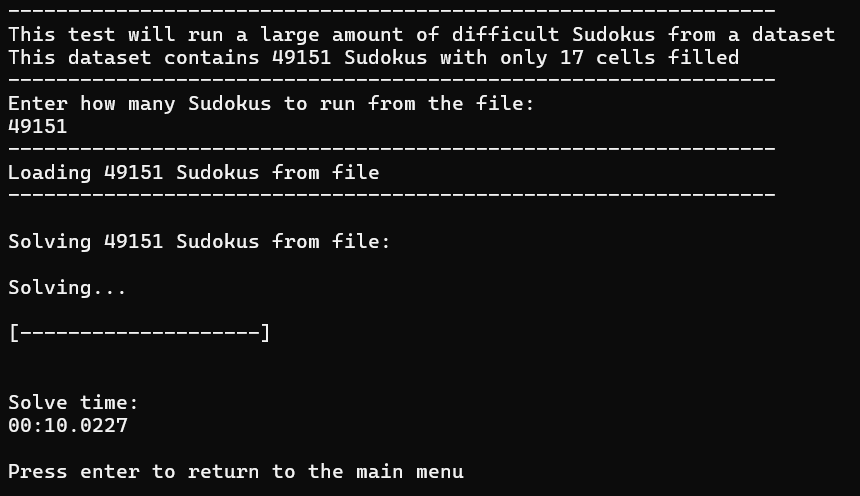
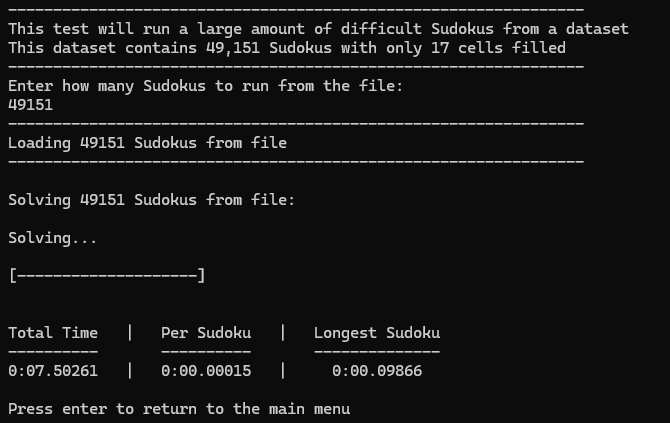
Updated readme with 16x16 documentation

diff --git a/README.md b/README.md
@@ -9,7 +9,8 @@ When opening the program, you will be presented a console screen with instructio
 ### Solving a single board
 ---
 
-To solve a single Sudoku board, simply enter the Sudoku board in the correct format. The correct format for a Sudoku board is a sequence of 81 digits, each digit representing a cell on the 9x9 board, row by row from left to right and from top to bottom. Cells with numbers are represented by their corresponding digit from 1 to 9, whille empty cells are represented by zeros.
+The application can solve Sudoku boards ranging in size from 4x4 to 16x16.
+To solve a single Sudoku board, simply enter the Sudoku board in the correct format. The correct format for a Sudoku board is a sequence of characters matching the size of the board, so that each character represents a cell on the board, so for a 4x4 board that would be 16 characters for 16 cells, for a 9x9 board it would be 81 characters for 81 cells, and so on. The characters represent cells in order, row by row from left to right and from top to bottom. Cells with numbers from 1 to 9 are represented by their corresponding digit character, whille numbers above 9 are represented by English letters ('A' for 10, 'B' for 11, 'C' for 12 and so on). Empty cells are represented by zeros.
 
 The main interface of the application:
 
@@ -33,7 +34,7 @@ To enter test mode, simply type "test" into the console instead of a Sudoku boar
 #### The easy test:
 ---
 
-The easy speed test allows you to input a number of Sudokus to solve from the dataset. The easy Sudoku dataset contains 100,000 Sudoku boards as well as their solutions.
+The easy speed test allows you to input a number of Sudokus to solve from the dataset. The easy Sudoku dataset contains 100,000 9x9 Sudoku boards as well as their solutions.
 
 When you choose the easy speed test you are asked to select an amount of Sudokus to solve. When you input a number, the application loads that number of Sudoku boards from the start of the file and starts solving them while displaying a progress bar. When the test is over the application displays whether the boards were solved correctly, as well as the total solve time for all the boards.
 
@@ -42,7 +43,7 @@ When you choose the easy speed test you are asked to select an amount of Sudokus
 #### The difficult test:
 ---
 
-The difficult speed test allows you to input a number of Sudokus to solve from the dataset. The difficult Sudoku dataset contains 49,151 Sudoku boards with only 17 cells filled in, the minimum amount for a Sudoku board to be deterministic.
+The difficult speed test allows you to input a number of Sudokus to solve from the dataset. The difficult Sudoku dataset contains 49,151 9x9 Sudoku boards with only 17 cells filled in, the minimum amount for a Sudoku board to be deterministic.
 
 When you choose the difficult you are asked to select an amount of Sudokus to solve. When you input a number, the application loads that number of Sudoku boards from the start of the file and startss solving them while displaying a progress bar. When the test is over the application displays the total solve time forr all the boards.
 
